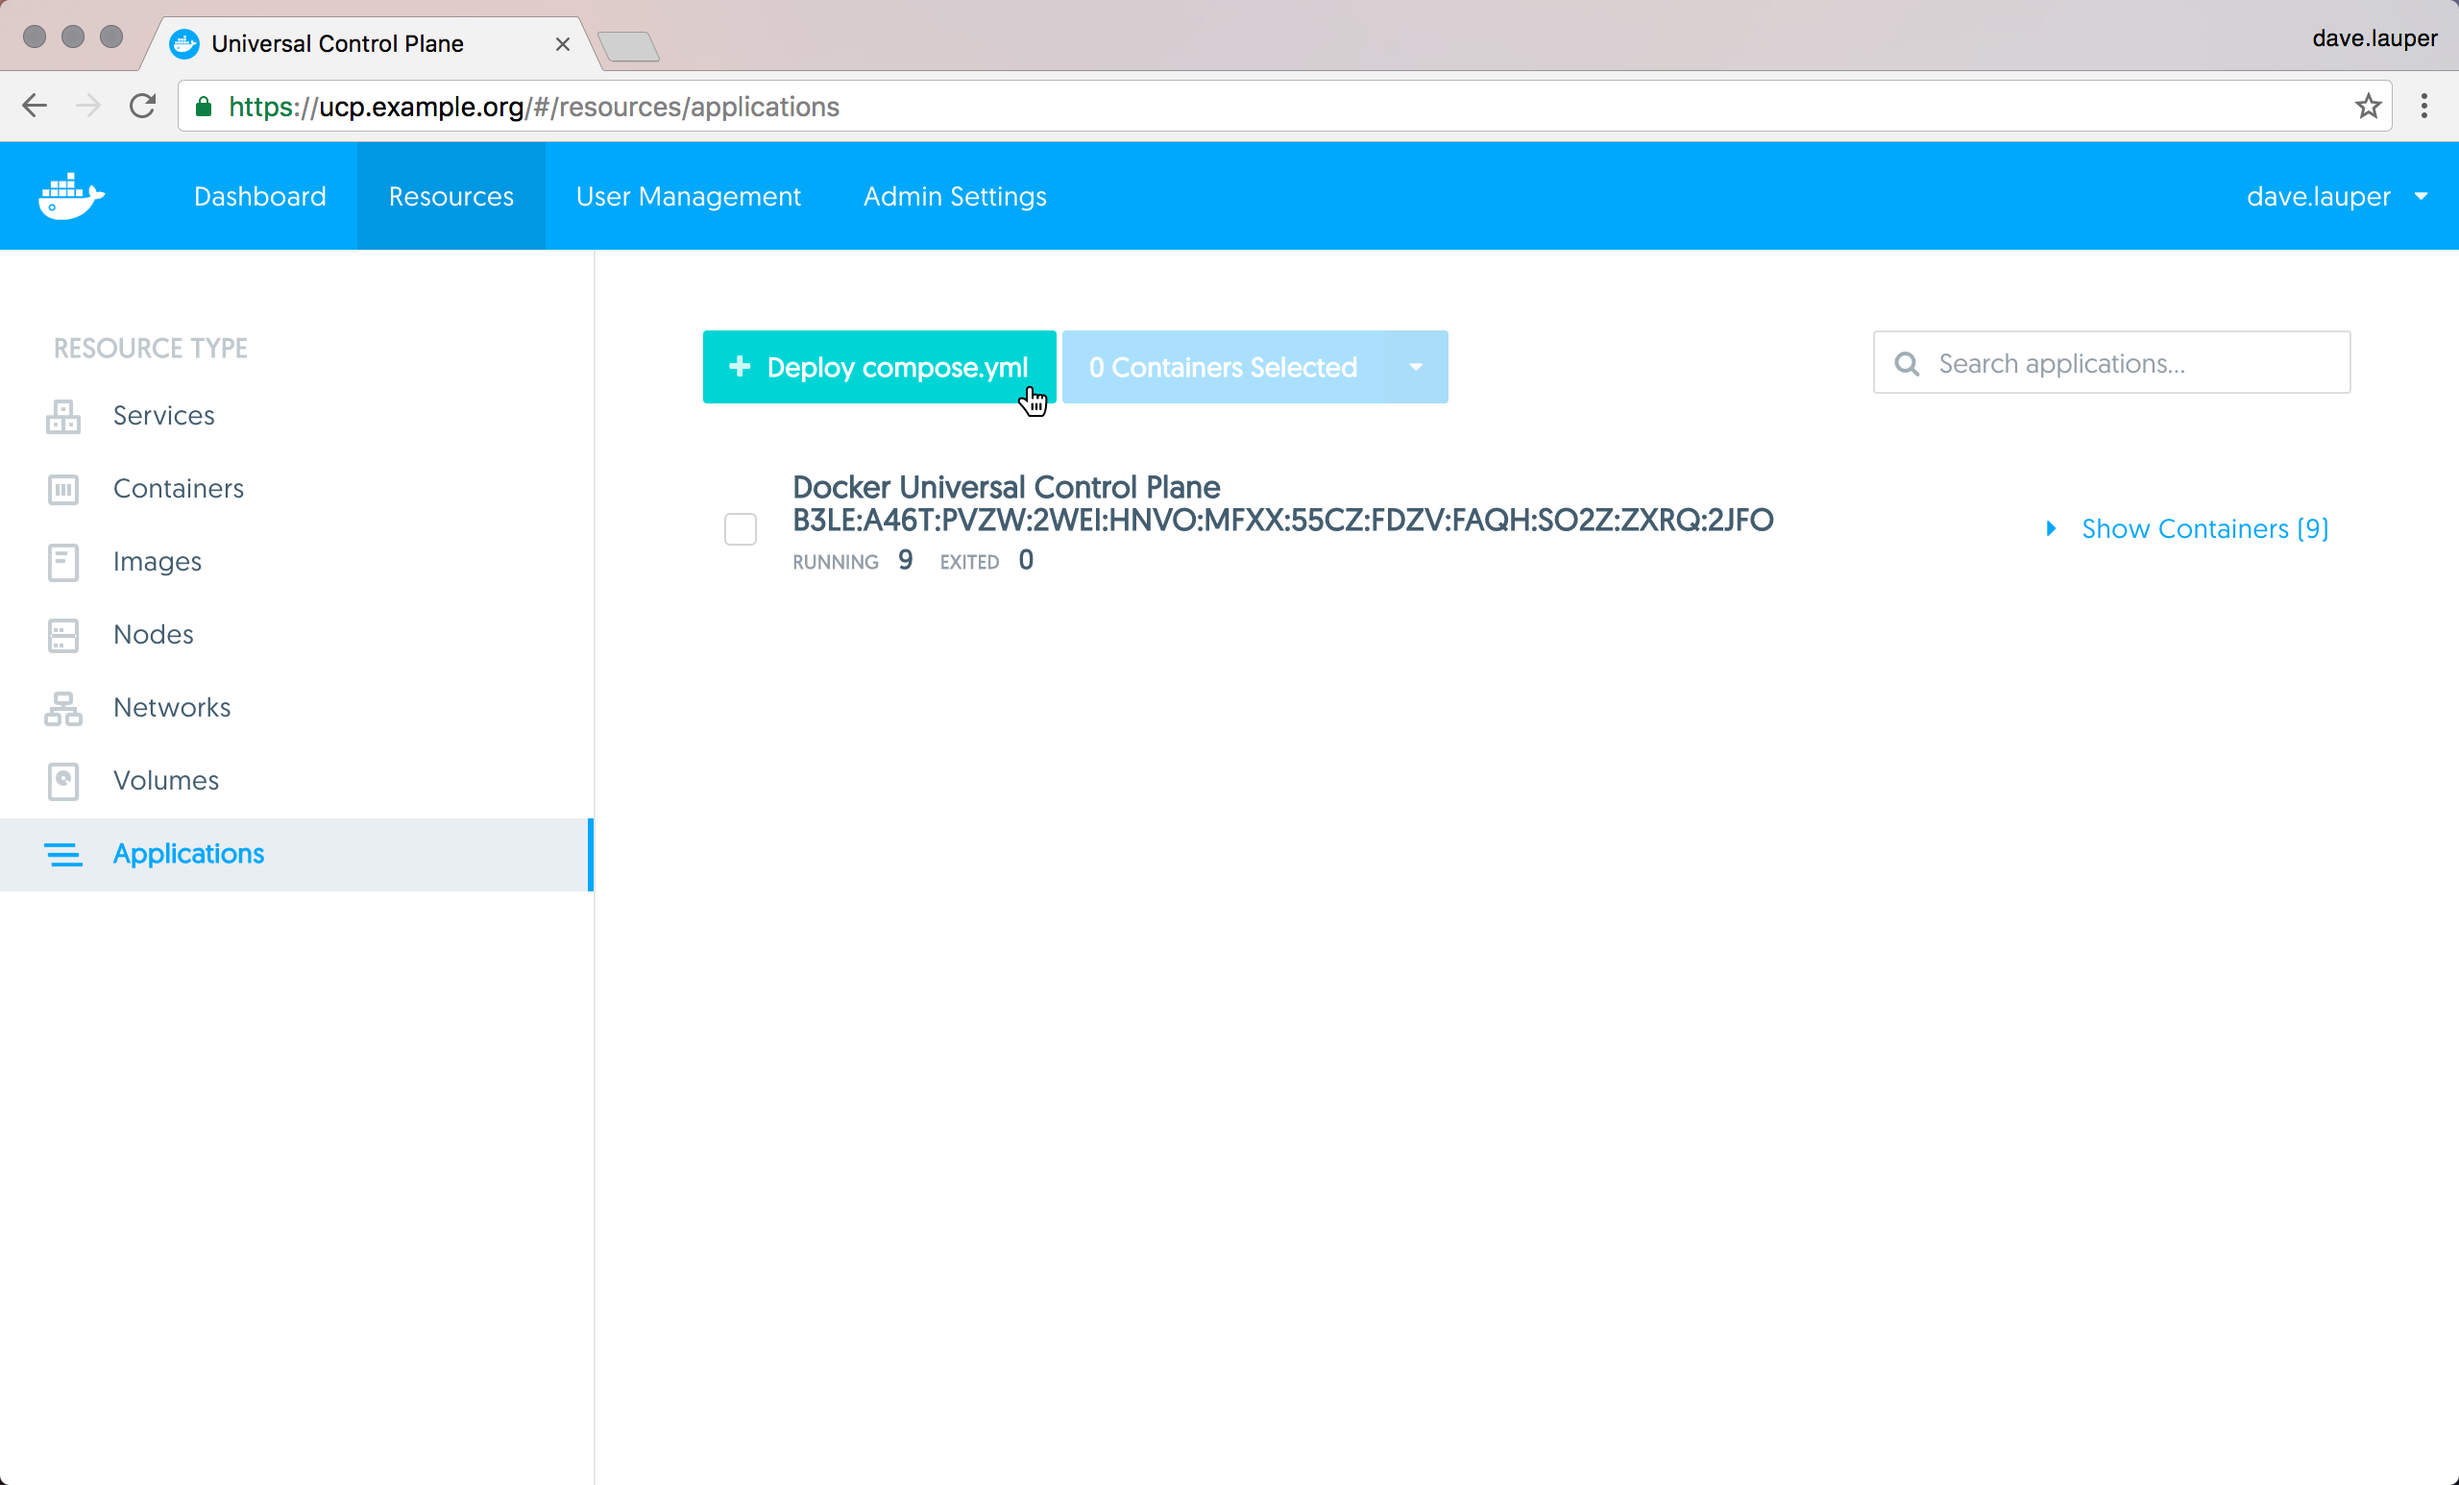
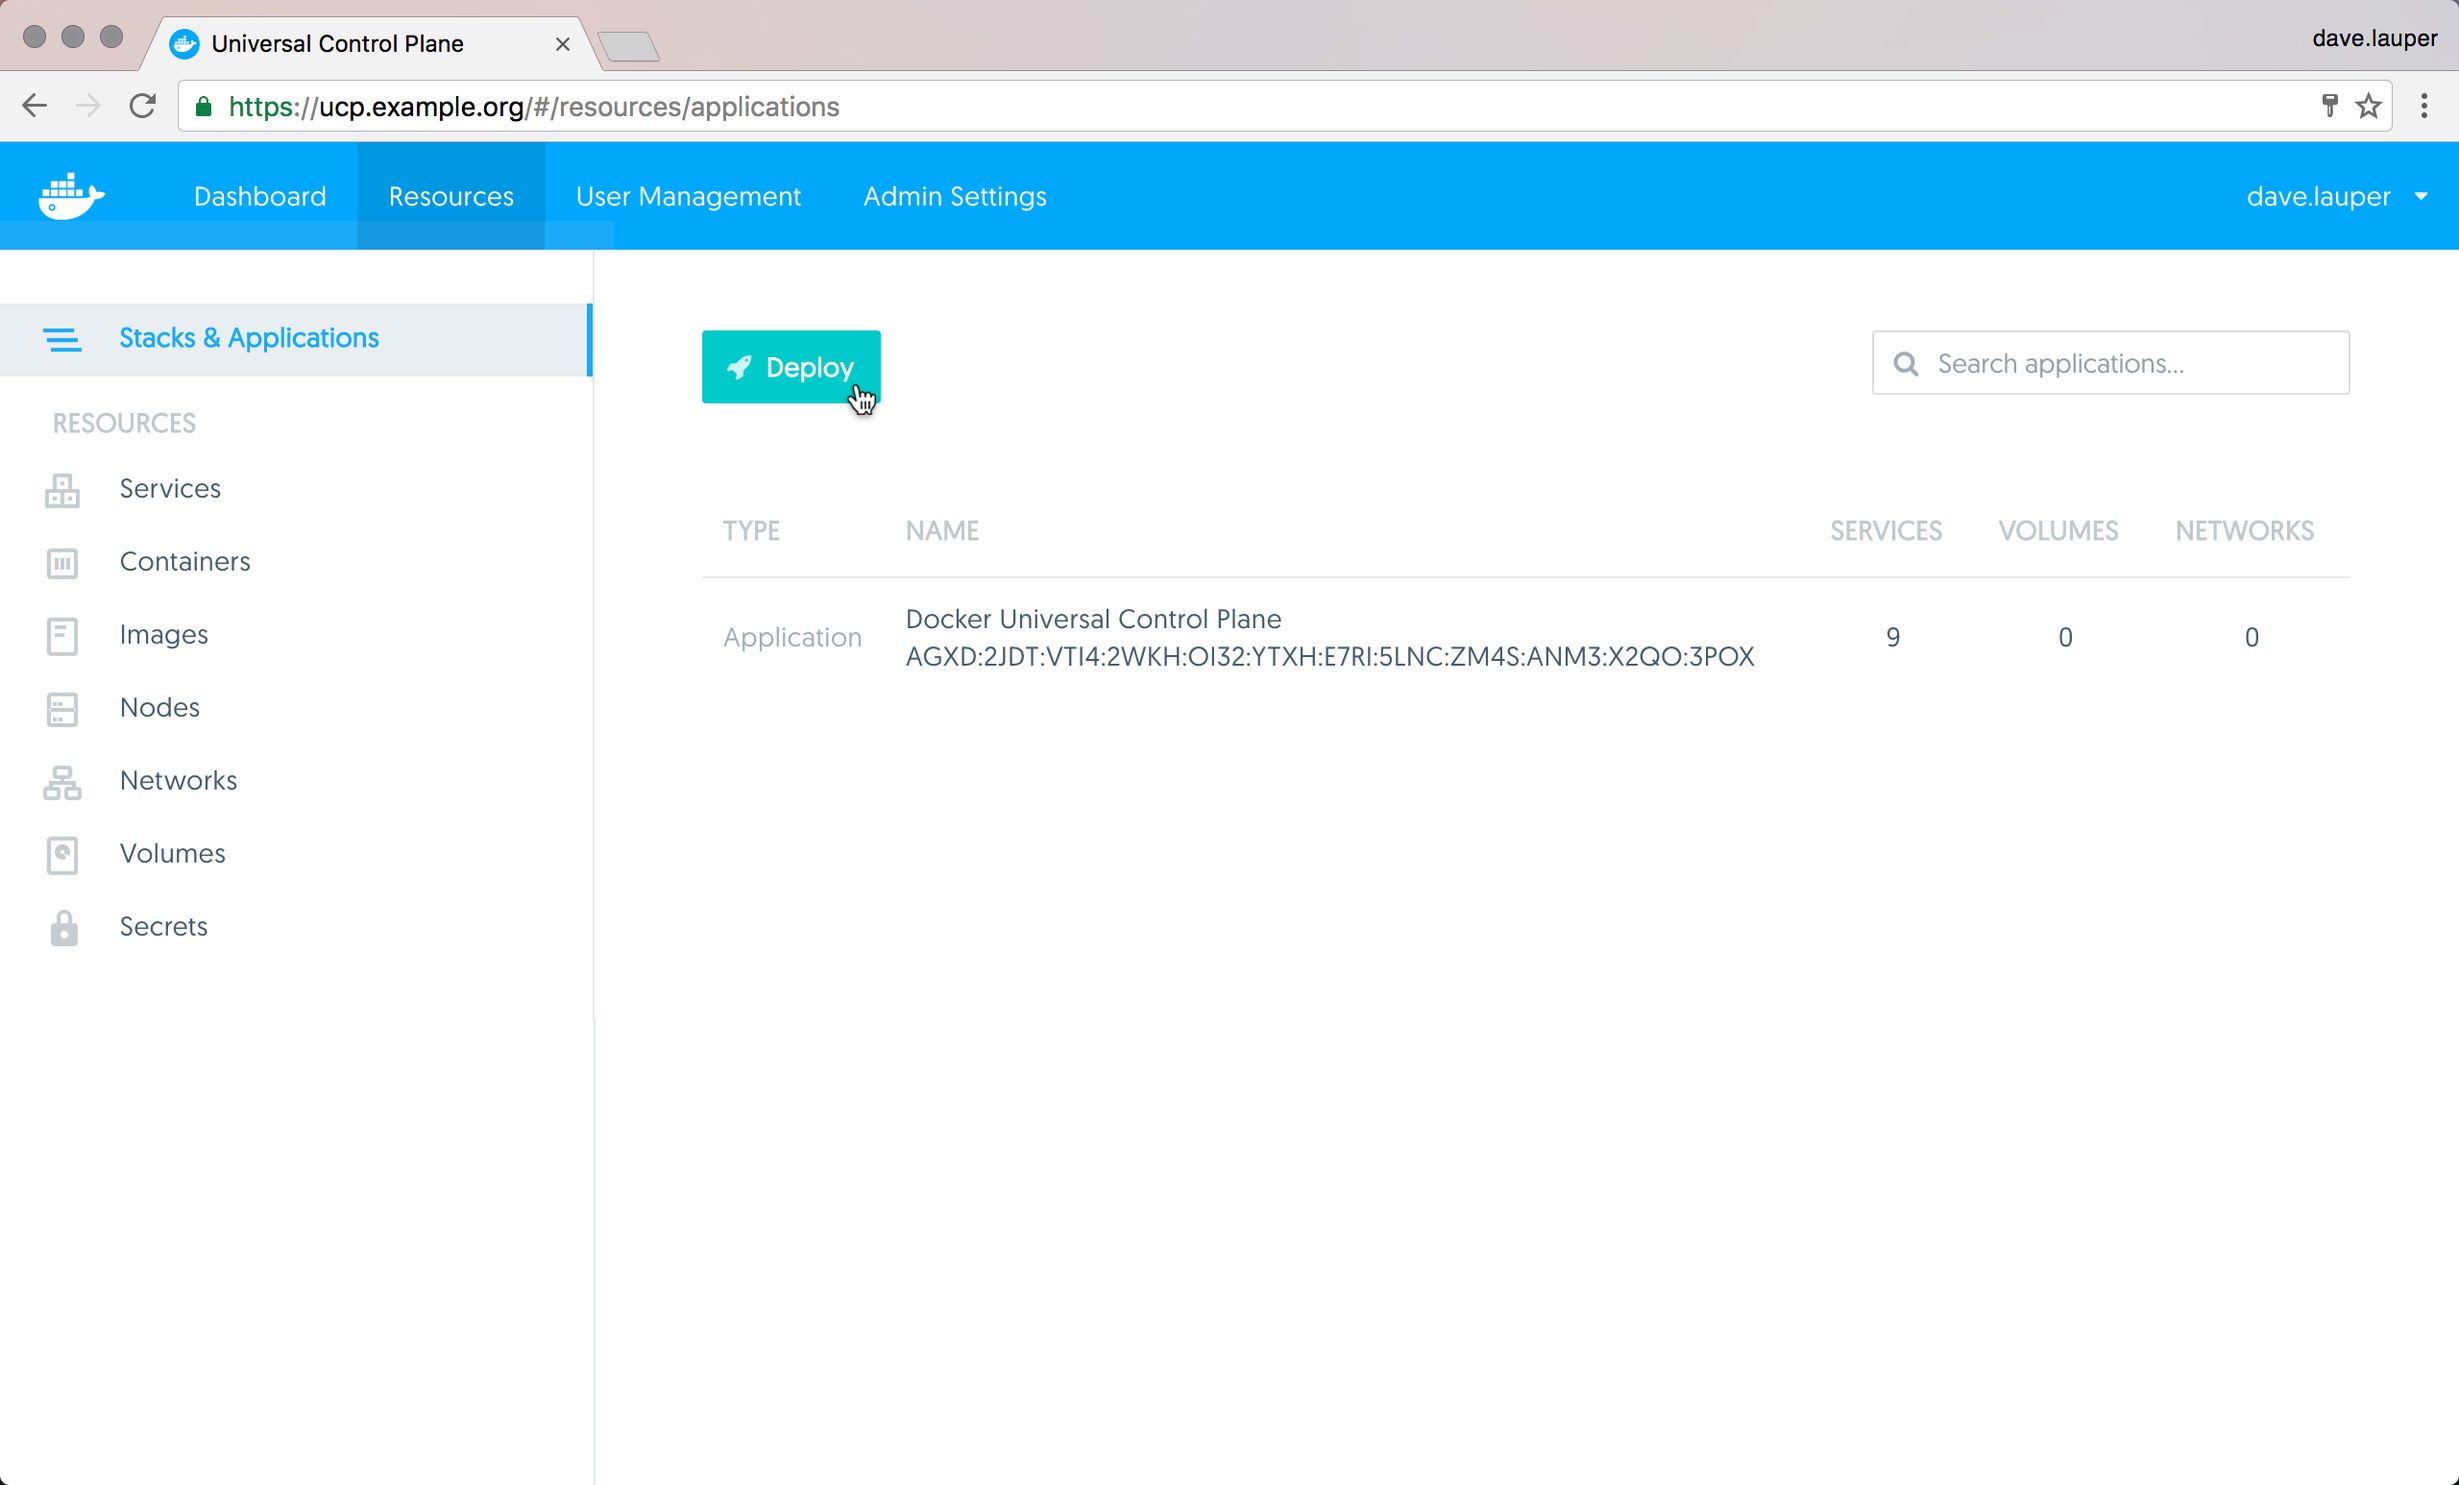
Update screenshots for /datacenter/ucp/2.1/guides/user/services/

diff --git a/datacenter/ucp/2.1/guides/user/services/index.md b/datacenter/ucp/2.1/guides/user/services/index.md
@@ -7,12 +7,12 @@ title: Deploy an app from the UI
 
 With Docker Universal Control Plane you can deploy applications from the UI
 using `docker-compose.yml` files. In this example, we're going to deploy an
-application that allows users to vote on whether they prefer cats or dogs.
+application that allows users to vote on whether they prefer cats or dogs. 😺 🐶
 
 ## Deploy voting application
 
-In your browser, **log in** to UCP, and navigate to the **Applications** page.
-There, click the **Deploy compose.yml** button, to deploy a new application.
+In your browser, **log in** to UCP, and navigate to the **Stacks & Applications** page.
+There, click the **Deploy** button, to deploy a new application.
 
 ![](../../images/deploy-app-ui-1.png){: .with-border}
 
@@ -25,7 +25,7 @@ The application we're going to deploy is composed of several services:
 * `db`: A PostgreSQL service which provides permanent storage on a host volume
 * `worker`: A background service that transfers votes from the queue to permanent storage
 
-Click **Services** and paste the following YAML into the **DOCKER-COMPOSE.YML**
+Click **Deploy** and paste the following YAML into the **APPLICATION DEFINITION**
 field.
 
 ```none
@@ -125,7 +125,7 @@ documentation](http://docker-docs-vnext-compose.netlify.com/compose/compose-file
 Give the application a name (such as "VotingApp," used here), and click
 **Create**.
 
-Once UCP deploys the application, click on **Services** on the left navigation,
+Once UCP deploys the application, click on **VotingApp** or go to **Services** on the left navigation,
 to see the details of the services you have deployed across your nodes. Try
 clicking on the `visualizer` service, and scroll to the bottom of the detail page.
 You'll see a link to your UCP instance's URL that includes the published port
